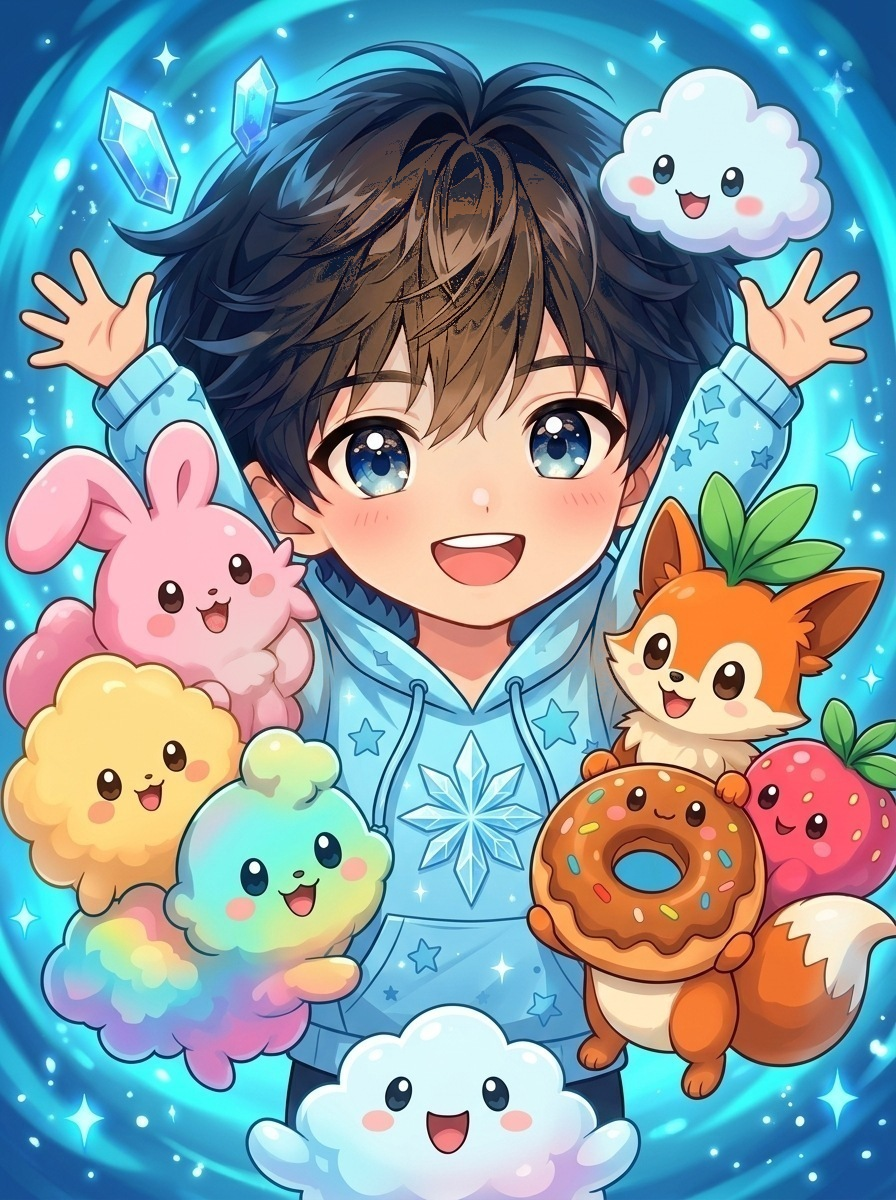
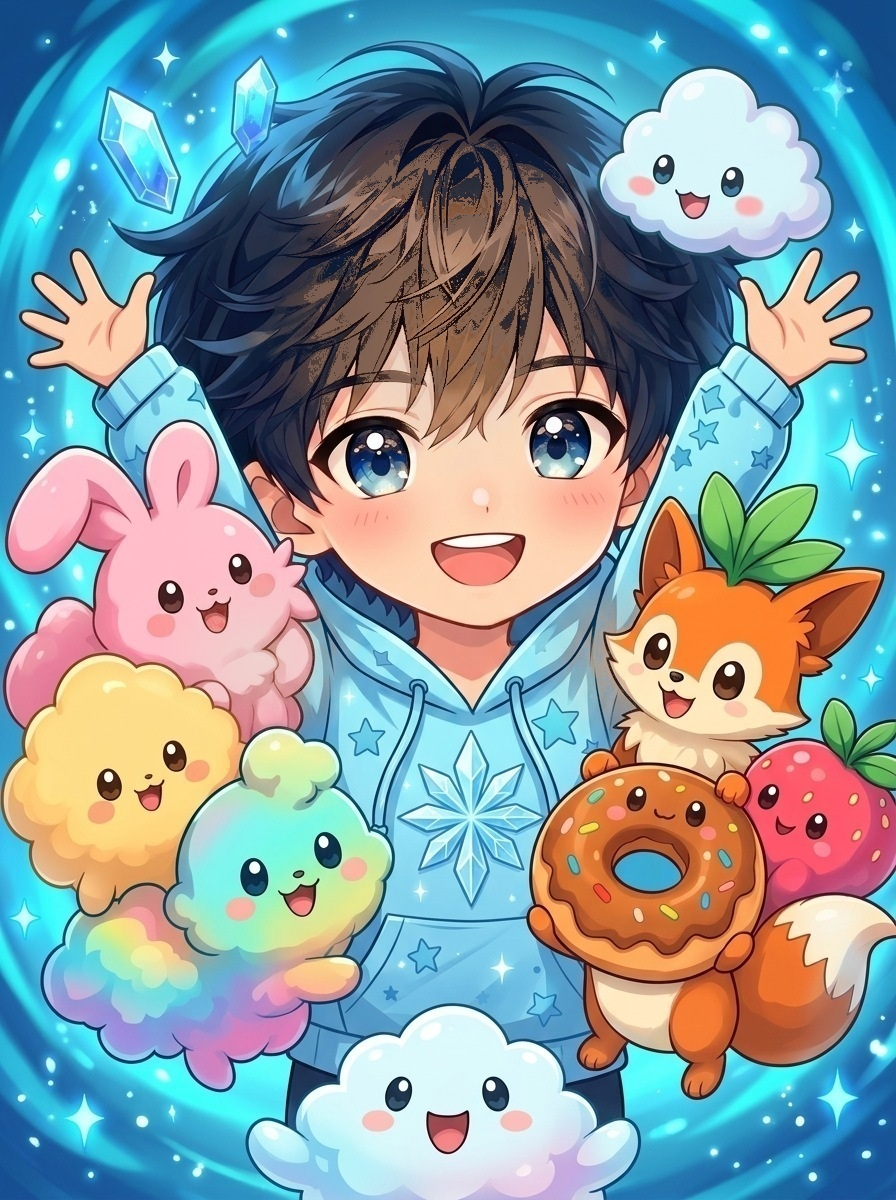
Fix classic Dana stock face cyan without swapping the scene
Remap only cyan face/hand pixels on the sun-hoodie friends-aura stock,
drop warmSkin post-process (muddy brown stains), and keep Dana & Friends
on stock art even if a personalized sceneUrl is passed.

diff --git a/src/app/api/stylize/route.ts b/src/app/api/stylize/route.ts
@@ -2,7 +2,6 @@ import { readFile } from "fs/promises";
 import path from "path";
 import { generateChibiImage, getGeminiApiKey } from "@/lib/gemini";
 import type { PaletteId } from "@/lib/themes";
-import { warmSkinDataUrl } from "@/lib/warmSkin";
 import { NextResponse } from "next/server";
 
 export const maxDuration = 180;
@@ -122,22 +121,15 @@ export async function POST(req: Request) {
       });
     }
 
-    // Theme blues stay on hoodie/bg — warm peach skin on face after generate.
-    const portraitImage = portraitR.ok
-      ? await warmSkinDataUrl(portraitR.image)
-      : undefined;
-    const friendsImage = friendsR.ok
-      ? await warmSkinDataUrl(friendsR.image)
-      : undefined;
-
+    // No warmSkin post-process — it muddy-stained foreheads brown.
     return NextResponse.json({
       image: sheetR.ok ? sheetR.image : undefined,
       kind: "print-sheet",
-      /** Unified kid-among-mascots scene for BOTH card backs (no face sticker). */
-      friendsScene: friendsImage,
+      /** Personalized friends scene for {name} & Friends back only. */
+      friendsScene: friendsR.ok ? friendsR.image : undefined,
       /** @deprecated alias — same as friendsScene */
-      nameBack: friendsImage,
-      portrait: portraitImage,
+      nameBack: friendsR.ok ? friendsR.image : undefined,
+      portrait: portraitR.ok ? portraitR.image : undefined,
       provider: "google-gemini",
       model: sheetR.ok
         ? sheetR.model

diff --git a/src/components/CardBack.tsx b/src/components/CardBack.tsx
@@ -49,8 +49,10 @@ export function CardBack({
           : "card-back-title--sparkle";
   const sloganColor = theme.id === "aura" ? "#FFE56A" : theme.accentDeep;
   const footerColor = theme.id === "aura" ? "#A8C4FF" : theme.accentDeep;
-  const scene = sceneUrl || BACK_SCENE[theme.id];
-  const personalized = !!sceneUrl;
+  // Dana & Friends brand title always uses stock art — never personalized scene.
+  const isBrandDana = (title || "Dana & Friends").trim() === "Dana & Friends";
+  const scene = isBrandDana ? BACK_SCENE[theme.id] : sceneUrl || BACK_SCENE[theme.id];
+  const personalized = !isBrandDana && !!sceneUrl;
 
   return (
     <article
